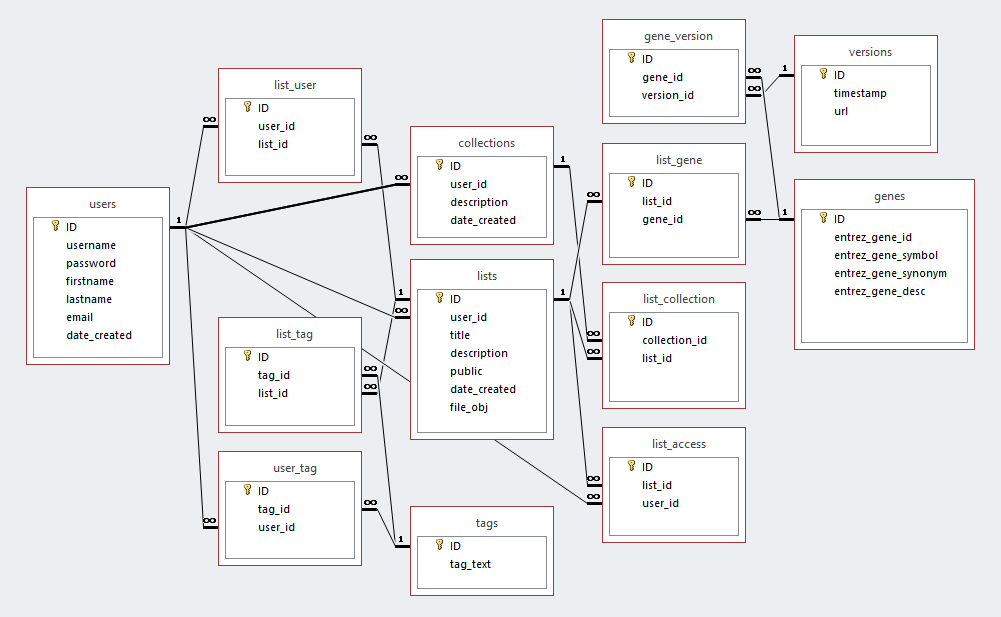
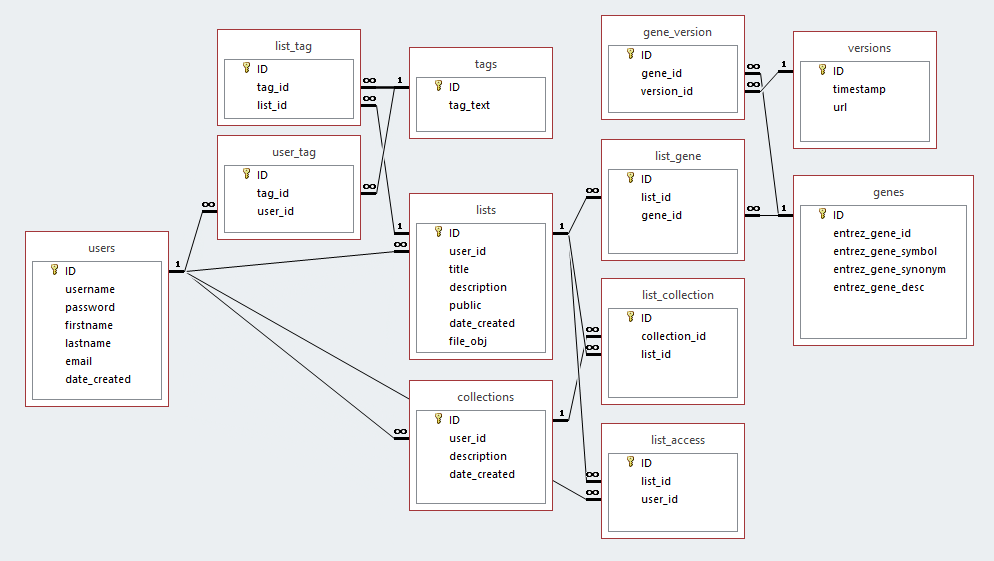
modified erd, dropped list_user table - unnecessary

diff --git a/project/model.py b/project/model.py
@@ -112,18 +112,6 @@ class listAccess(Base):
     user = relationship("User",
             backref=backref("list_access", order_by=id))
 
-class listUser(Base):
-    __tablename__ = "list_user"
-
-    id = Column(Integer, primary_key = True, autoincrement=True)
-    user_id = Column(Integer, ForeignKey('users.id'), nullable = False)
-    list_id = Column(Integer, ForeignKey('lists.id'), nullable = False)
-
-    user = relationship("User",
-            backref=backref("list_user", order_by=id))
-    lists = relationship("List",
-            backref=backref("list_user", order_by=id))
-
 class listGene(Base):
     __tablename__ = "list_gene"
 
